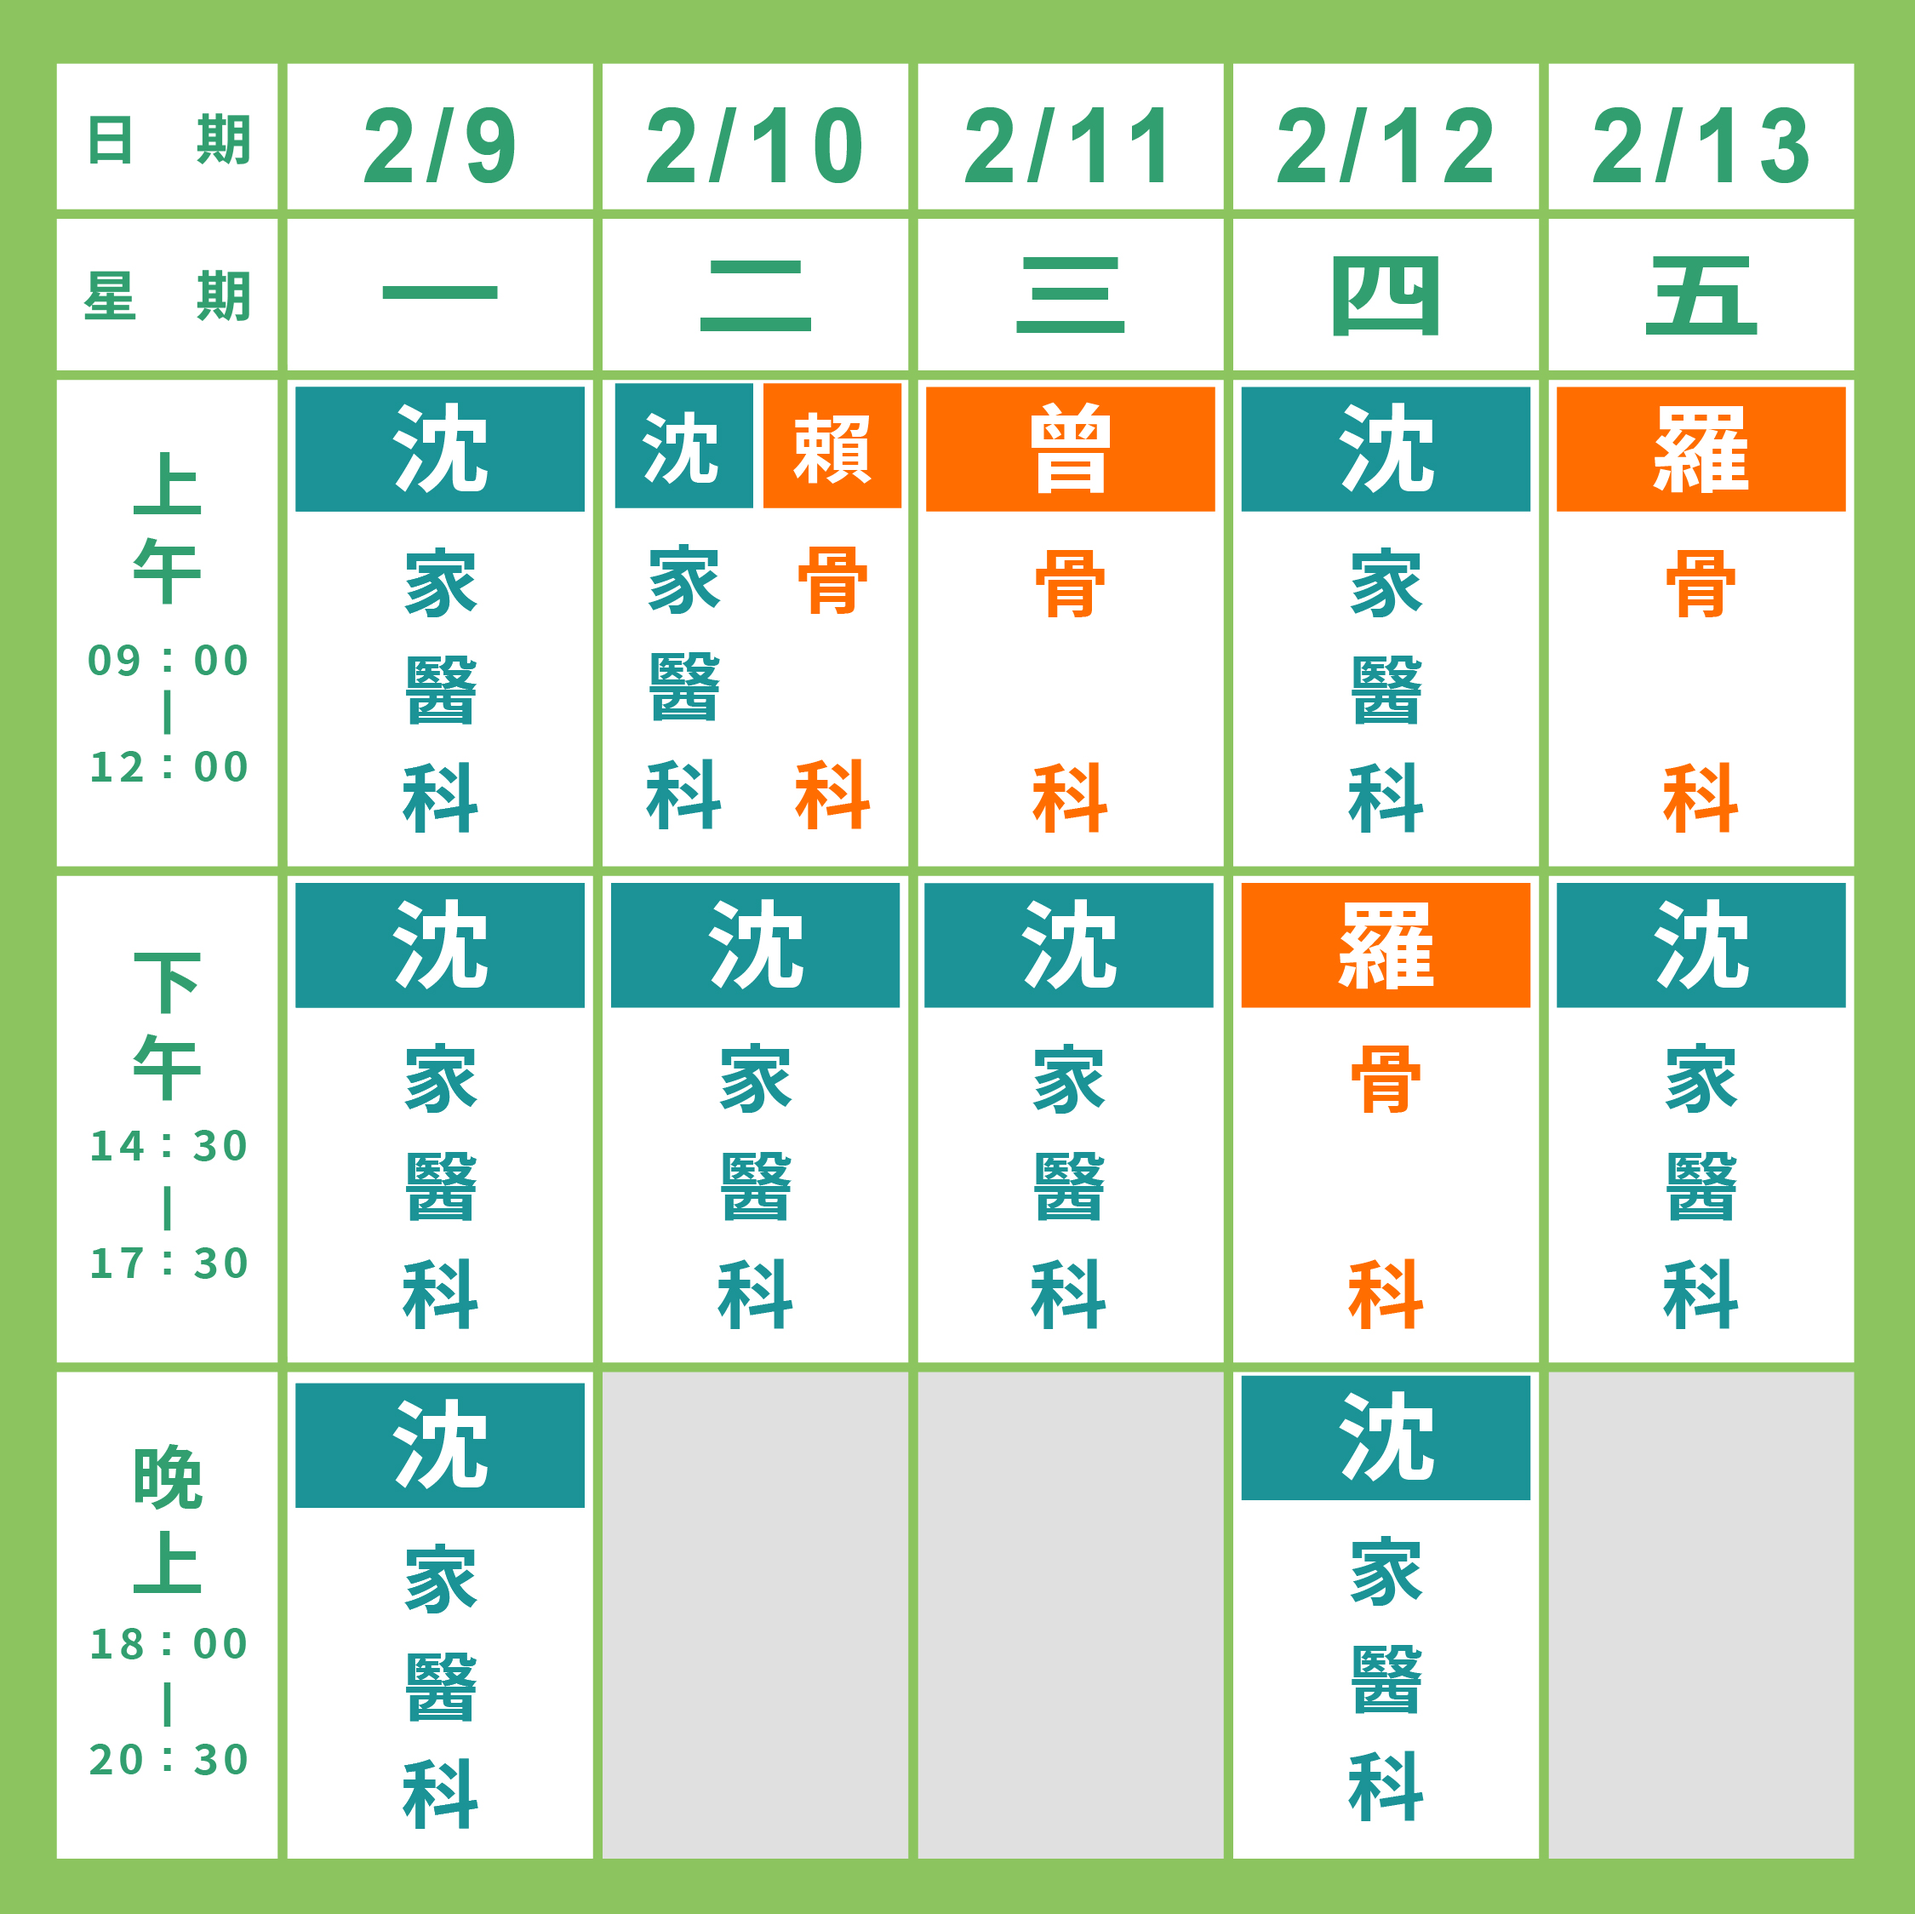
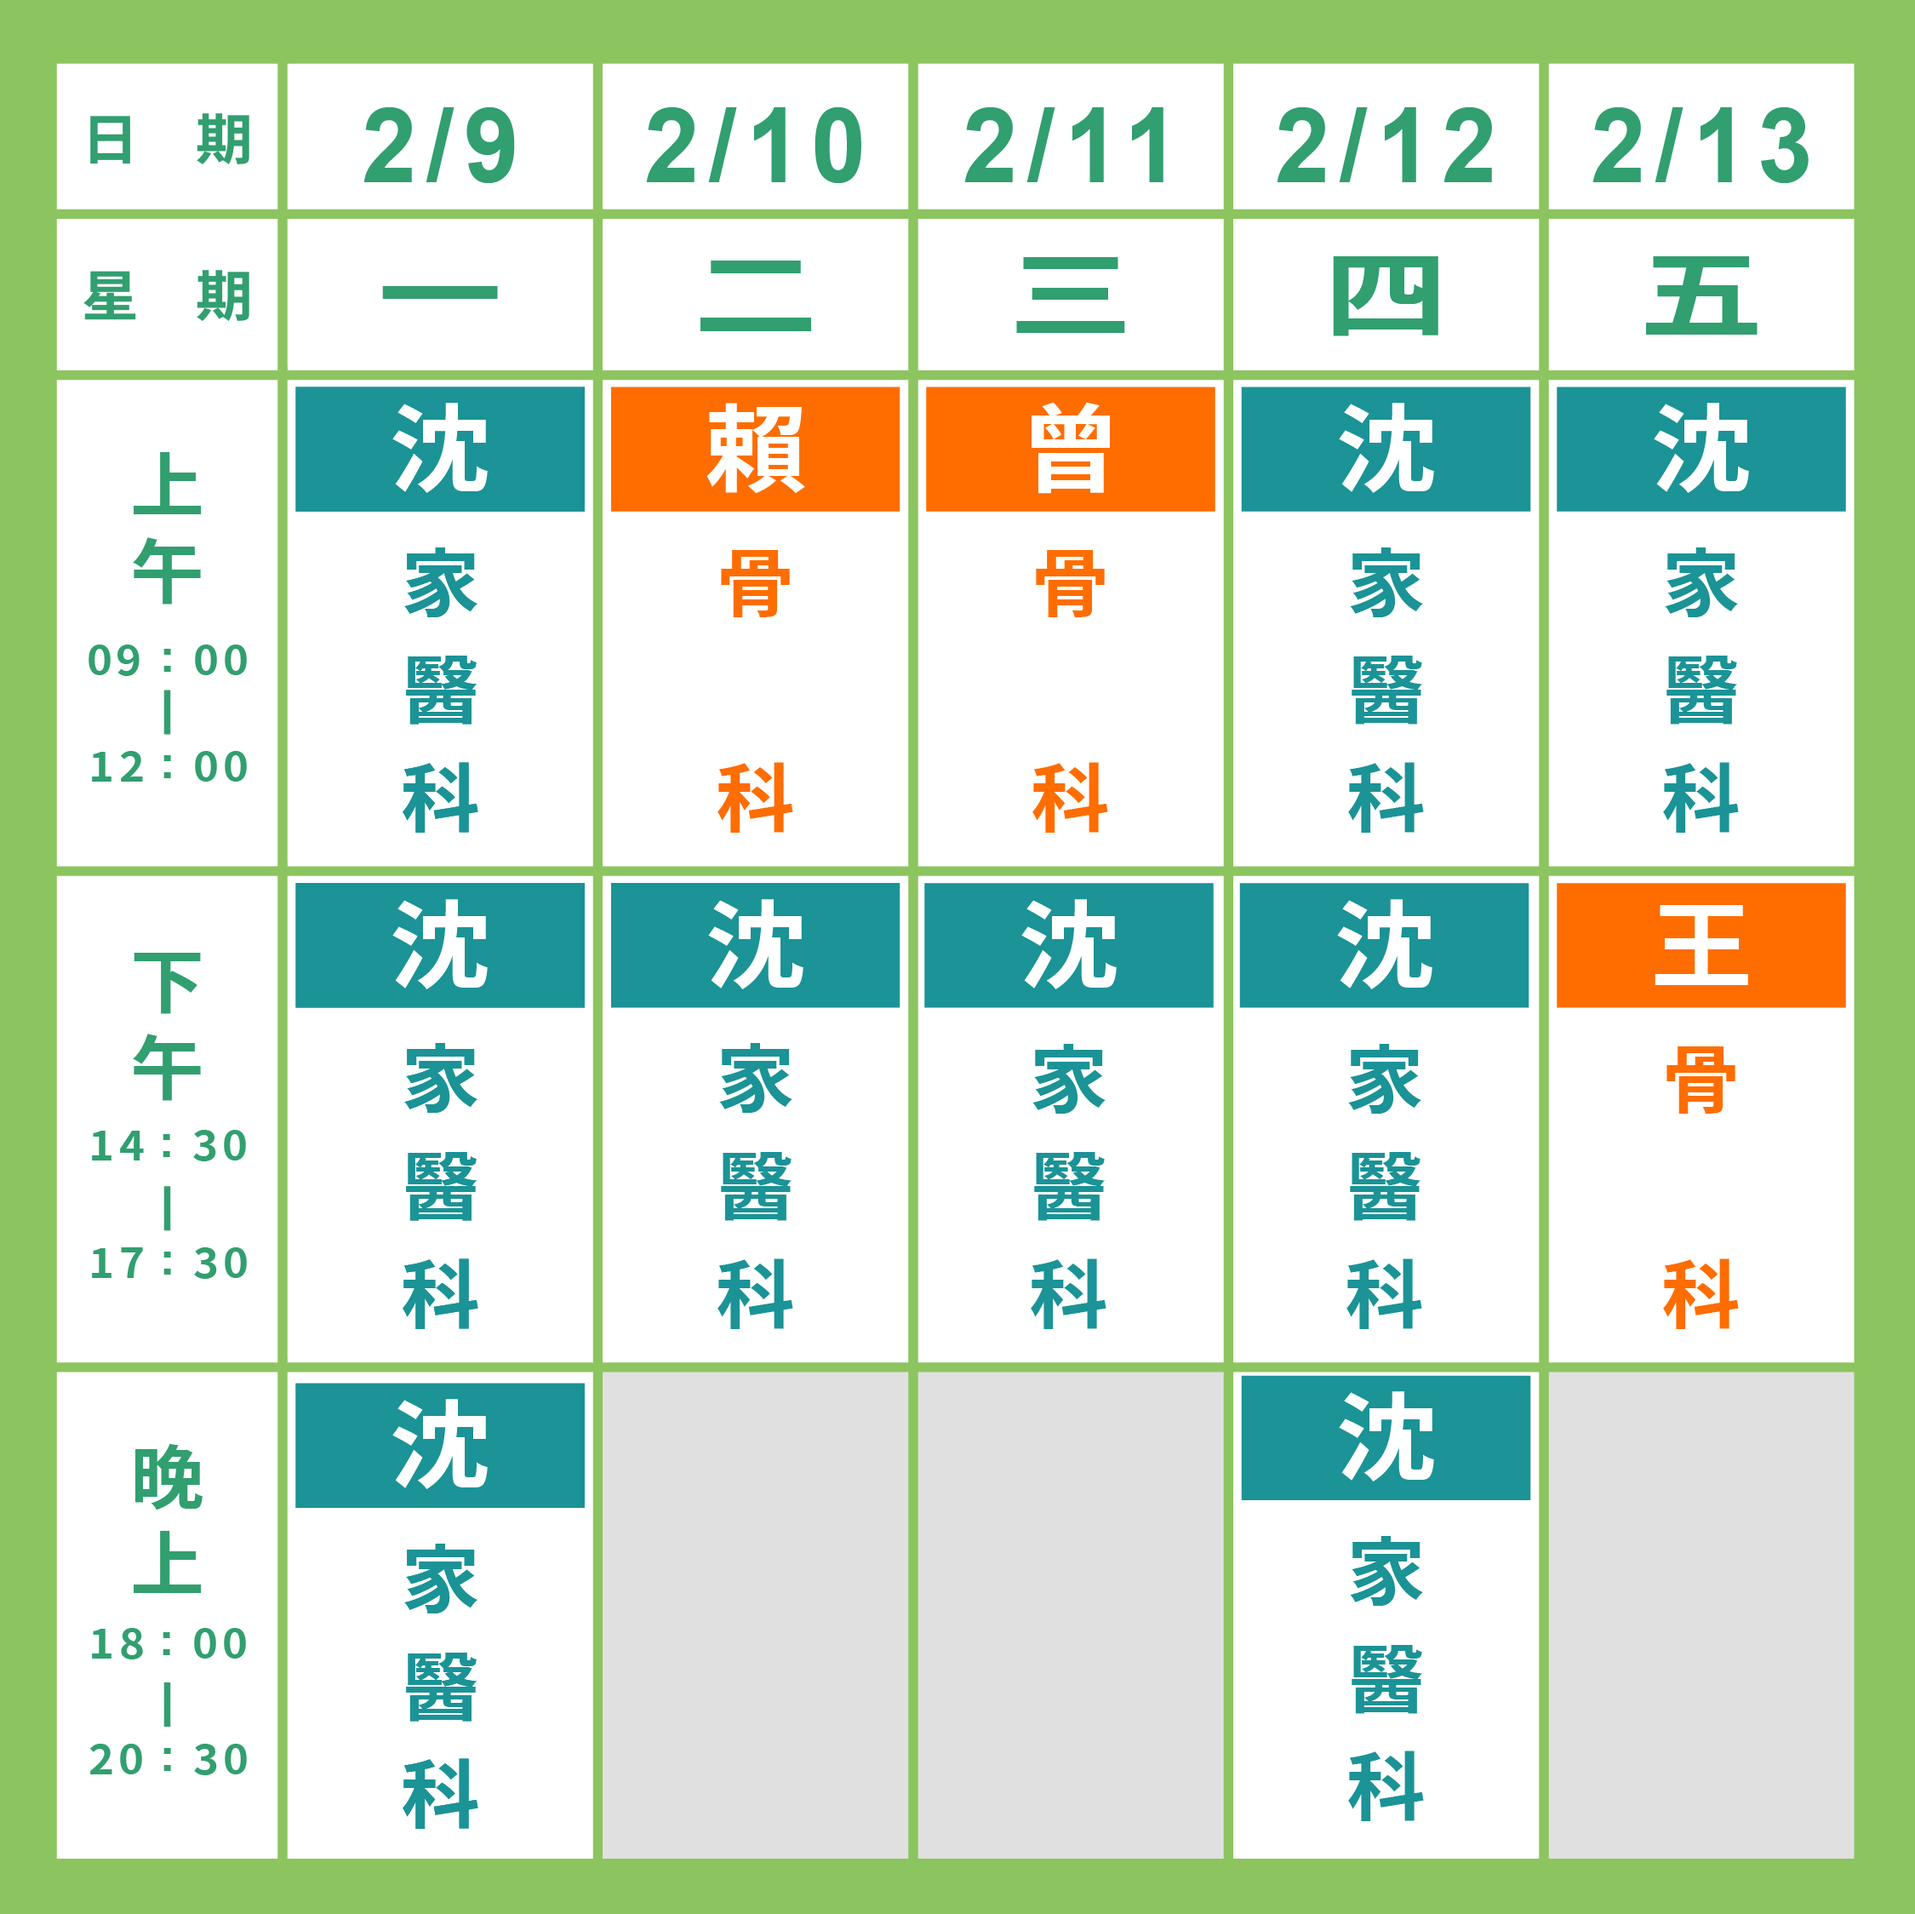
week更新

Changed region(s): [[0.6222, 0.1868, 0.9644, 0.7162], [0.3111, 0.1868, 0.4667, 0.4359]]

diff --git a/index.html b/index.html
@@ -354,7 +354,7 @@ j=d.createElement(s),dl=l!='dataLayer'?'&l='+l:'';j.async=true;j.src=
           <div class="mb-2 text-center">
           <span id="weekRange" class="fw-bold"></span>
         </div>
-        <img id="clinicSchedule" src="./images/week_0.jpg" alt="門診時間表" class="week" loading="lazy">
+        <img id="clinicSchedule" src="./images/week_1.jpg" alt="門診時間表" class="week" loading="lazy">
         <p id="weekInfo"></p>
         </div>
       </div>
